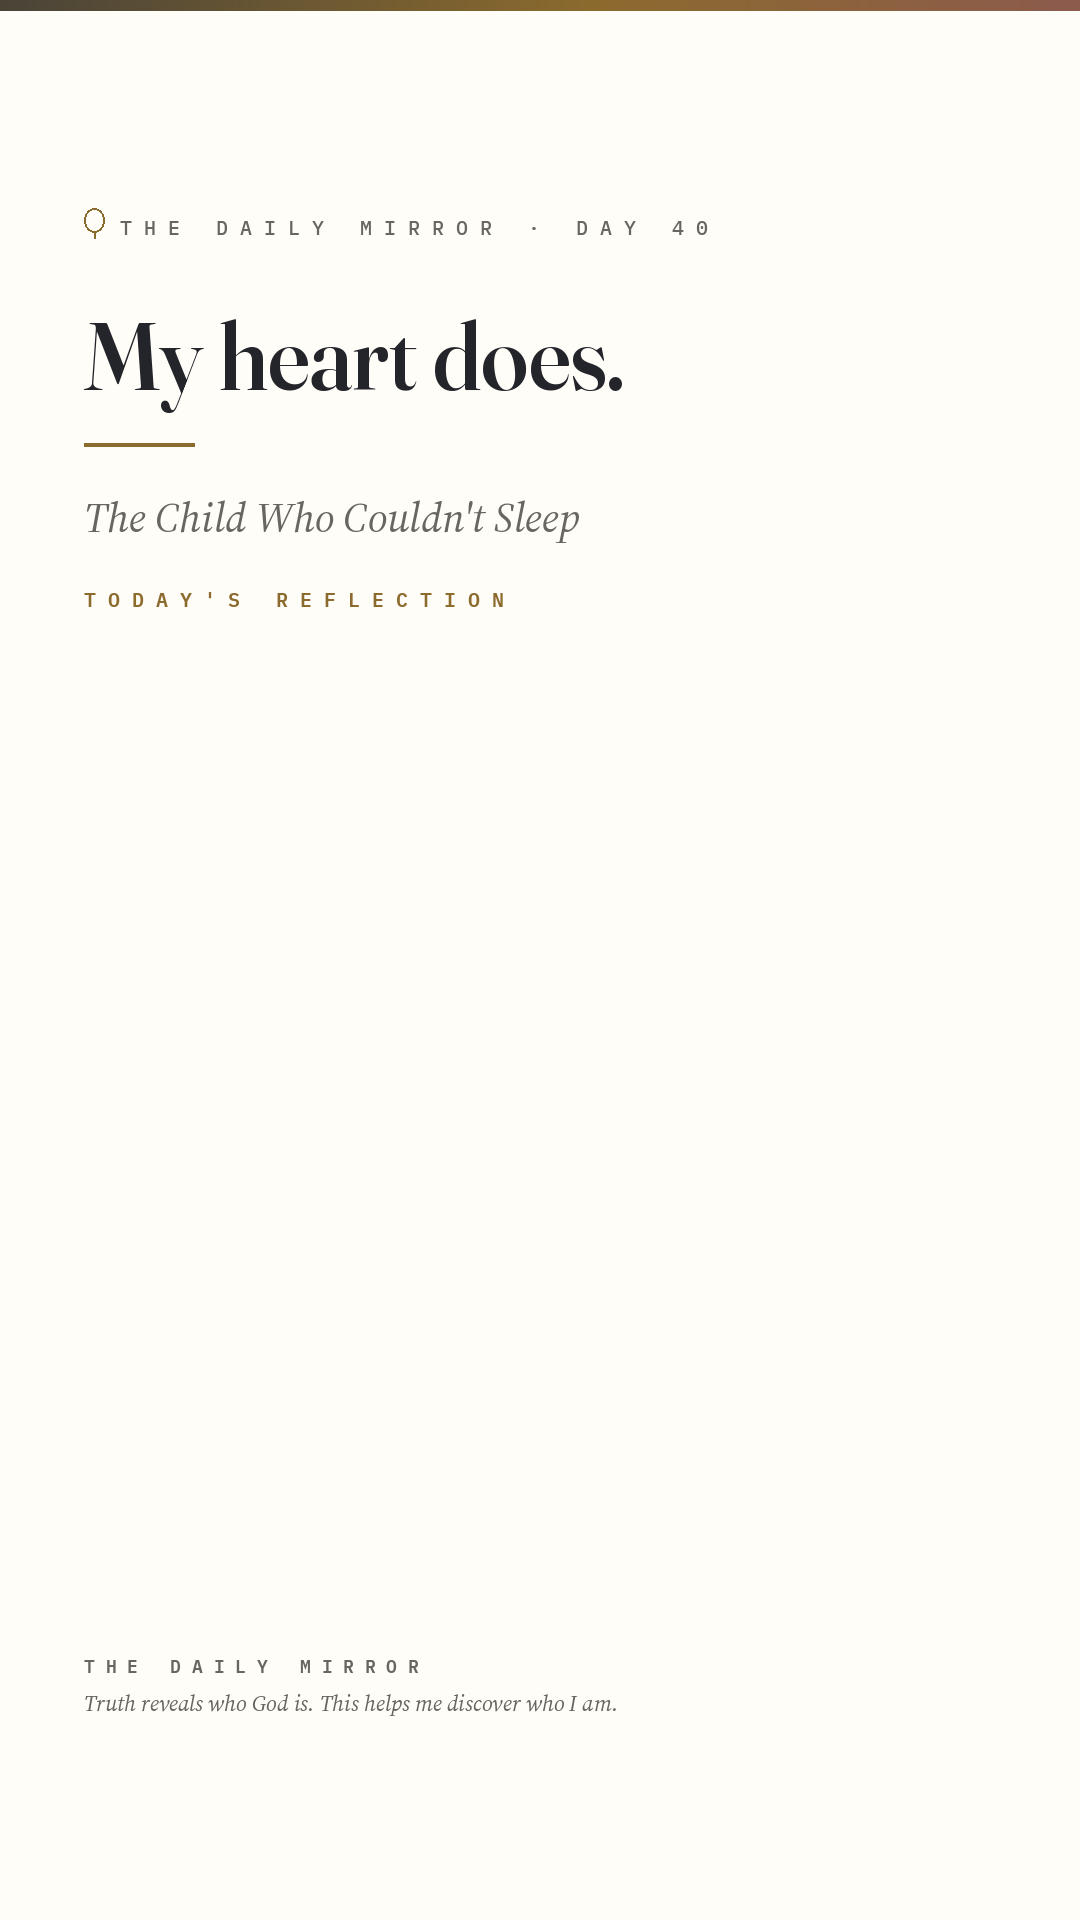
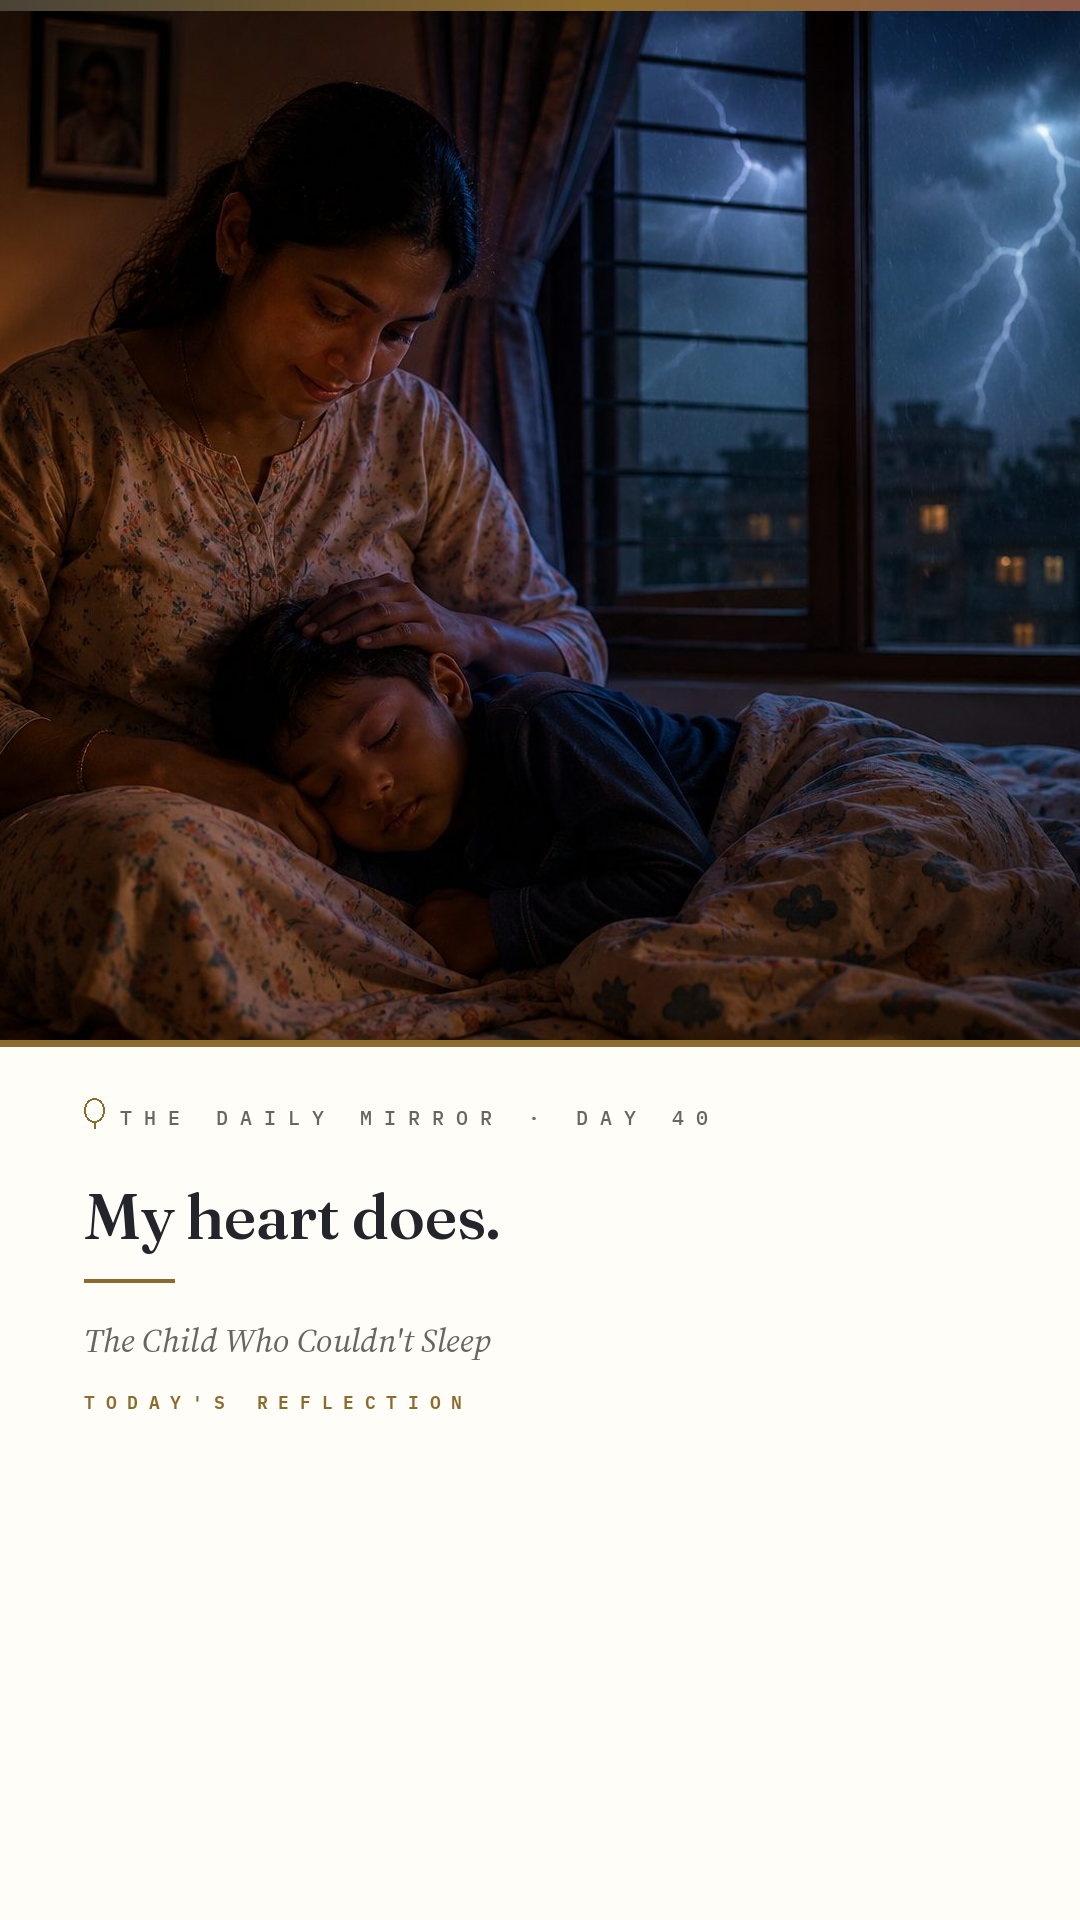
Add photo layouts to OG/Story cards for entries with a header image
Automatic per entry, based purely on whether entries/*.md has an
image: field — no manual choice, no new frontmatter, nothing to
configure per day.

OG card (split panel): photo fills a ~460px column at full height,
text stays on plain paper in the remaining width. A "TODAY'S
REFLECTION" footer label (borrowed from the Story card's existing
language) anchors the text block instead of leaving empty space
below short titles/hooks.

Story card (photo band): photo fills the top ~55% at full width,
text sits on plain paper below. Preserves the original design's
Link-sticker safe zone at the bottom untouched.

Both layouts deliberately never draw text over the photo — an
earlier full-bleed-photo-with-gradient-scrim design was tried and
rejected after testing across several real entries: a bright-sky
photo (Day 47) washed out one line of text with no way to fix it
without per-entry manual tuning, which breaks the "fully automatic"
requirement this whole pipeline exists to satisfy. Keeping photo and
text in separate regions makes any photo's own brightness/color a
non-issue, verified again across Days 41/46/47/48 plus a synthetic
worst-case long-title/long-hook entry.

Entries without a header image are completely unaffected — verified
by comparing every generated file's bytes before/after: all 37
text-only entries are byte-for-byte identical, only the 11 entries
with a photo (Days 38-48 minus 37) changed.

diff --git a/scripts/generate_social_images.py b/scripts/generate_social_images.py
@@ -11,6 +11,17 @@ fonts/README.md) — no local/Windows dependency, unlike the generate_og_images.
 this replaces, which only ever ran manually on Windows and was never part of
 the automated pipeline.
 
+Each card has two layouts, chosen automatically per entry: the *_photo()
+variant when the entry has a header image (entries/*.md `image:` field,
+required from Day 46 on), the *_text() variant when it doesn't. The photo
+layout always keeps the photo in its own panel/band and text on plain paper
+— never text drawn on top of the photo — after an earlier full-bleed-with-
+gradient-scrim design turned out to have a real per-photo legibility failure
+(a bright-sky photo washed out one line of text) with no way to fix it
+without manual per-entry tuning, which contradicts this whole pipeline's
+"fully automatic" requirement. Keeping photo and text in separate regions
+means any photo's own brightness/color is a non-issue.
+
 Resilience policy: publishing the reflection matters more than generating its
 share images. A failure on one entry is logged and skipped, not fatal — every
 other entry still gets its images, and build_pages.py already falls back to
@@ -157,11 +168,30 @@ def dawn_strip(draw, x0, y0, x1, y1):
 # Job: read as a link preview, often rendered small (WhatsApp/iMessage/X cards
 # can be quite compact). Title recognition matters more than decorative detail,
 # so the title is the single largest element — bigger priority than the hook.
+#
+# Two layouts, chosen per entry: render_og_image_photo() when the entry has a
+# header image, render_og_image_text() when it doesn't (Days 1-45 minus the
+# backfilled ones). The photo layout keeps text on plain paper and the photo
+# in its own column — never text drawn over the photo — deliberately, after
+# an earlier full-bleed-photo-with-scrim design turned out to have a real,
+# per-photo legibility failure mode (a bright-sky photo washed out the day
+# number) with no way to fix it without per-entry manual tuning, which
+# contradicts the "fully automatic, zero manual work" requirement this whole
+# pipeline was built around. A photo column can be any brightness/color and
+# never risks that, because text is never drawn on top of it.
 
 OG_W, OG_H = 1200, 630
+OG_PANEL_W = 460  # photo column — ~38% of the card, big enough to be the
+                   # actual visual draw, not a token badge
 
 
-def render_og_image(entry):
+def render_og_image(entry, photo_path=None):
+    if photo_path is not None:
+        return render_og_image_photo(entry, photo_path)
+    return render_og_image_text(entry)
+
+
+def render_og_image_text(entry):
     img = Image.new("RGB", (OG_W, OG_H), PAPER)
     draw = ImageDraw.Draw(img)
     dawn_strip(draw, 0, 0, OG_W, 7)
@@ -220,6 +250,79 @@ def render_og_image(entry):
     return img
 
 
+def render_og_image_photo(entry, photo_path):
+    img = Image.new("RGB", (OG_W, OG_H), PAPER)
+    draw = ImageDraw.Draw(img)
+    dawn_strip(draw, 0, 0, OG_W, 7)
+
+    text_w = OG_W - OG_PANEL_W
+    margin = 72
+    x = margin
+    max_text_width = text_w - margin - 28  # breathing room before the panel edge
+
+    # Photo column: cover-cropped to fill, full height below the dawn-strip.
+    # Center-cropped — simple and safe. (A photo with important content very
+    # close to its own left/right edge, like Day 47's billboard, can get
+    # trimmed by this; no per-entry cropping control exists, and none is
+    # planned — see the module-level note above on why automatic-only.)
+    photo = Image.open(photo_path).convert("RGB")
+    panel_h = OG_H - 7
+    scale = max(OG_PANEL_W / photo.width, panel_h / photo.height)
+    photo = photo.resize((round(photo.width * scale), round(photo.height * scale)), Image.LANCZOS)
+    left = (photo.width - OG_PANEL_W) // 2
+    top = (photo.height - panel_h) // 2
+    photo = photo.crop((left, top, left + OG_PANEL_W, top + panel_h))
+    img.paste(photo, (OG_W - OG_PANEL_W, 7))
+    draw.rectangle([OG_W - OG_PANEL_W - 4, 7, OG_W - OG_PANEL_W, OG_H], fill=GOLD)
+
+    mark_w = draw_mirror_mark(draw, x, 44, 32)
+    draw.text((x + mark_w + 18, 56), tracked("THE DAILY MIRROR"), font=mono(18), fill=INK_SOFT)
+    day = entry.get("day")
+    if day:
+        draw.text((x, 108), tracked(f"DAY {day}"), font=mono(20, semibold=True), fill=GOLD)
+
+    # Quiet footer label, fixed position — same "TODAY'S REFLECTION" language
+    # the Story card uses, so the two card types read as one family. It also
+    # gives the title/hook block a fixed lower boundary to center within
+    # instead of a large empty zone that reads as unfinished on short entries.
+    footer_y = OG_H - 68
+    draw.text((x, footer_y), tracked("TODAY'S REFLECTION"), font=mono(15, semibold=True), fill=GOLD)
+
+    title_font, title_lines = fit_text(
+        draw, entry.get("title", ""), max_text_width, 3,
+        fraunces, start_size=72, min_size=44, weight=580,
+    )
+    hook = (entry.get("hook") or "").strip()
+    show_hook = bool(hook) and _normalize(hook) != _normalize(entry.get("title", ""))
+    hook_font, hook_lines = (None, [])
+    if show_hook:
+        hook_font, hook_lines = fit_text(
+            draw, hook, max_text_width, 4,
+            source_serif, start_size=28, min_size=22, italic=True, weight=420,
+        )
+
+    RULE_GAP_ABOVE, RULE_GAP_BELOW = 18, 26
+    block_h = sum(title_font.size + 10 for _ in title_lines)
+    if show_hook:
+        block_h += RULE_GAP_ABOVE + 3 + RULE_GAP_BELOW + sum(hook_font.size + 12 for _ in hook_lines)
+    zone_top, zone_bottom = 164, footer_y - 32
+    y = zone_top + max(0, (zone_bottom - zone_top - block_h) // 2)
+
+    for line in title_lines:
+        draw.text((x, y), line, font=title_font, fill=INK)
+        y += title_font.size + 10
+
+    if show_hook:
+        y += RULE_GAP_ABOVE
+        draw.line([(x, y), (x + 72, y)], fill=GOLD, width=3)
+        y += RULE_GAP_BELOW
+        for line in hook_lines:
+            draw.text((x, y), line, font=hook_font, fill=INK_SOFT)
+            y += hook_font.size + 12
+
+    return img
+
+
 # ============================ Story card (1080x1920) ============================
 # A different job entirely: full-screen, glanced at for a second or two while
 # scrolling Stories. The hook/curiosity line is the largest, most prominent
@@ -239,9 +342,18 @@ STORY_FOOTER_Y = 1654     # fixed regardless of content length — the gap above
                           # competing content) while staying clear of both the
                           # Link sticker's usual placement and Instagram's own
                           # reply bar at the very bottom.
+STORY_PHOTO_H = 1040      # top band for the photo variant — full width, ~55%
+                          # of the canvas, leaves room for text + the same
+                          # Link-sticker safe zone below it.
 
 
-def render_story_image(entry):
+def render_story_image(entry, photo_path=None):
+    if photo_path is not None:
+        return render_story_image_photo(entry, photo_path)
+    return render_story_image_text(entry)
+
+
+def render_story_image_text(entry):
     img = Image.new("RGB", (STORY_W, STORY_H), PAPER)
     draw = ImageDraw.Draw(img)
     dawn_strip(draw, 0, 0, STORY_W, 10)
@@ -306,11 +418,76 @@ def render_story_image(entry):
     return img
 
 
+def render_story_image_photo(entry, photo_path):
+    img = Image.new("RGB", (STORY_W, STORY_H), PAPER)
+    draw = ImageDraw.Draw(img)
+
+    # Photo band: full width, top ~55% — unlike the OG card's narrow side
+    # column, the Story format's full width means even a photo with content
+    # near its own edges (e.g. Day 47's billboard) usually survives the crop.
+    photo = Image.open(photo_path).convert("RGB")
+    scale = max(STORY_W / photo.width, STORY_PHOTO_H / photo.height)
+    photo = photo.resize((round(photo.width * scale), round(photo.height * scale)), Image.LANCZOS)
+    left = (photo.width - STORY_W) // 2
+    top = (photo.height - STORY_PHOTO_H) // 2
+    photo = photo.crop((left, top, left + STORY_W, top + STORY_PHOTO_H))
+    img.paste(photo, (0, 0))
+
+    dawn_strip(draw, 0, 0, STORY_W, 10)
+    draw.rectangle([0, STORY_PHOTO_H, STORY_W, STORY_PHOTO_H + 6], fill=GOLD)
+
+    x = STORY_MARGIN
+    y = STORY_PHOTO_H + 60
+
+    mark_w = draw_mirror_mark(draw, x, y - 2, 28)
+    label = tracked(f"THE DAILY MIRROR · DAY {entry.get('day', '')}")
+    draw.text((x + mark_w + 16, y + 4), label, font=mono(20), fill=INK_SOFT)
+    y += 76
+
+    # Hook is still the dominant text element, just working with less
+    # vertical room than the text-only layout (the photo band takes the
+    # space that used to hold it) — capped tighter accordingly.
+    hook = (entry.get("hook") or entry.get("title") or "").strip()
+    hook_font, hook_lines = fit_text(
+        draw, hook, STORY_W - STORY_MARGIN * 2, 4,
+        fraunces, start_size=64, min_size=42, weight=560,
+    )
+    for line in hook_lines:
+        draw.text((x, y), line, font=hook_font, fill=INK)
+        y += hook_font.size + 14
+
+    y += 26
+    draw.line([(x, y), (x + 90, y)], fill=GOLD, width=4)
+    y += 36
+
+    title = entry.get("title", "")
+    if title and _normalize(title) != _normalize(hook):
+        title_font, title_lines = fit_text(
+            draw, title, STORY_W - STORY_MARGIN * 2, 2,
+            source_serif, start_size=34, min_size=26, italic=True, weight=420,
+        )
+        for line in title_lines:
+            draw.text((x, y), line, font=title_font, fill=INK_SOFT)
+            y += title_font.size + 10
+
+    y += 30
+    draw.text((x, y), tracked("TODAY'S REFLECTION"), font=mono(18, semibold=True), fill=GOLD)
+
+    # Everything below this point is deliberately untouched — the Link
+    # sticker safe zone, same principle as the text-only layout.
+    return img
+
+
 def process_entry(entry):
     slug = entry["slug"]
-    og_img = render_og_image(entry)
+    image_rel = entry.get("image")
+    photo_path = ROOT / image_rel if image_rel else None
+    if photo_path is not None and not photo_path.exists():
+        photo_path = None
+
+    og_img = render_og_image(entry, photo_path)
     og_img.save(OG_DIR / f"{slug}.png")
-    story_img = render_story_image(entry)
+    story_img = render_story_image(entry, photo_path)
     story_img.save(STORY_DIR / f"{slug}.png")
 
 

diff --git a/README.md b/README.md
@@ -72,7 +72,7 @@ That's it. A GitHub Action (`.github/workflows/build.yml`) runs `build_index.py`
 - **"Install app" link** — in the footer, next to RSS. Triggers the browser's native install prompt where supported, and shows manual "Add to Home Screen" steps on iOS Safari, which doesn't support that prompt. (An earlier version also announced this — and the dark-mode toggle — via a dismissible first-visit banner above the header; removed since it front-loaded two feature call-outs before a first-time reader had read anything, and both are discoverable without it: dark mode already follows the OS's `prefers-color-scheme` for most readers, and the footer link covers the rest.)
 - **Self-hosted webfonts** — Fraunces, Source Serif 4, and IBM Plex Mono are served from `webfonts/*.woff2` instead of `fonts.googleapis.com`, removing a third-party render-blocking request for fonts already bundled in the repo (see `fonts/README.md`).
 - **Email subscribe UI** — a "Subscribe" link in the header and a CTA box in the footer, both wired to the `SUBSCRIBE_URL` constant described above.
-- **Share Reflection** — tapping Share opens a bottom sheet (`share.js`) with one-tap WhatsApp/Facebook/X sharing (pre-filled, on-brand text — see `share.js` for the templates), an Instagram "Share Story Card" flow, and a "More sharing options" fallback to the native share sheet. Every entry automatically gets its own branded 1200x630 link-preview image and 1080x1920 Story card (`scripts/generate_social_images.py`) — nothing to design by hand per entry. An entry can optionally set `social_hook` in its frontmatter to control the hook line used in all of this; if it's not set (the normal case), `closing_question` is used automatically.
+- **Share Reflection** — tapping Share opens a bottom sheet (`share.js`) with one-tap WhatsApp/Facebook/X sharing (pre-filled, on-brand text — see `share.js` for the templates), an Instagram "Share Story Card" flow, and a "More sharing options" fallback to the native share sheet. Every entry automatically gets its own branded 1200x630 link-preview image and 1080x1920 Story card (`scripts/generate_social_images.py`) — nothing to design by hand per entry. An entry can optionally set `social_hook` in its frontmatter to control the hook line used in all of this; if it's not set (the normal case), `closing_question` is used automatically. Entries with a header image get a photo layout automatically (photo in its own panel/band, never behind text, so any photo's brightness/color can't break legibility); entries without one get the original text-only layout — nothing to choose per entry.
 
 
 
